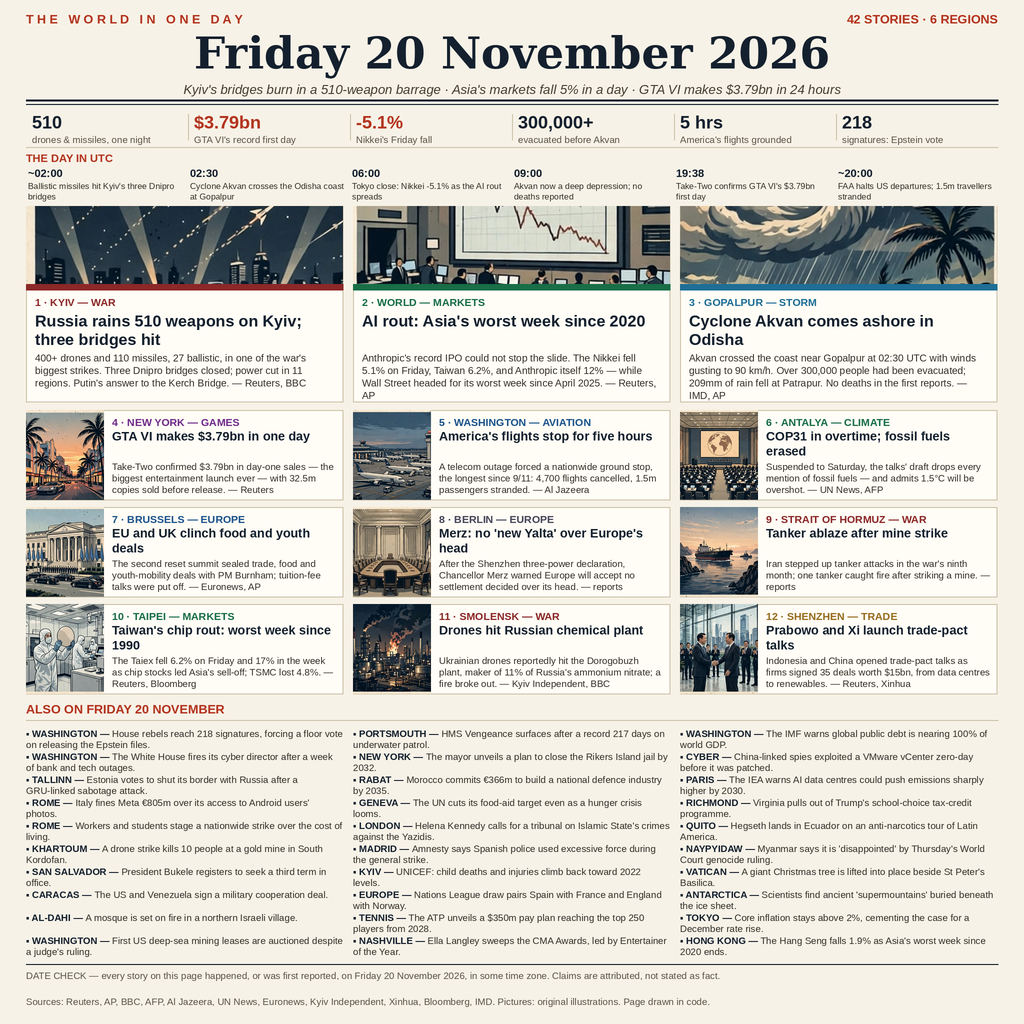
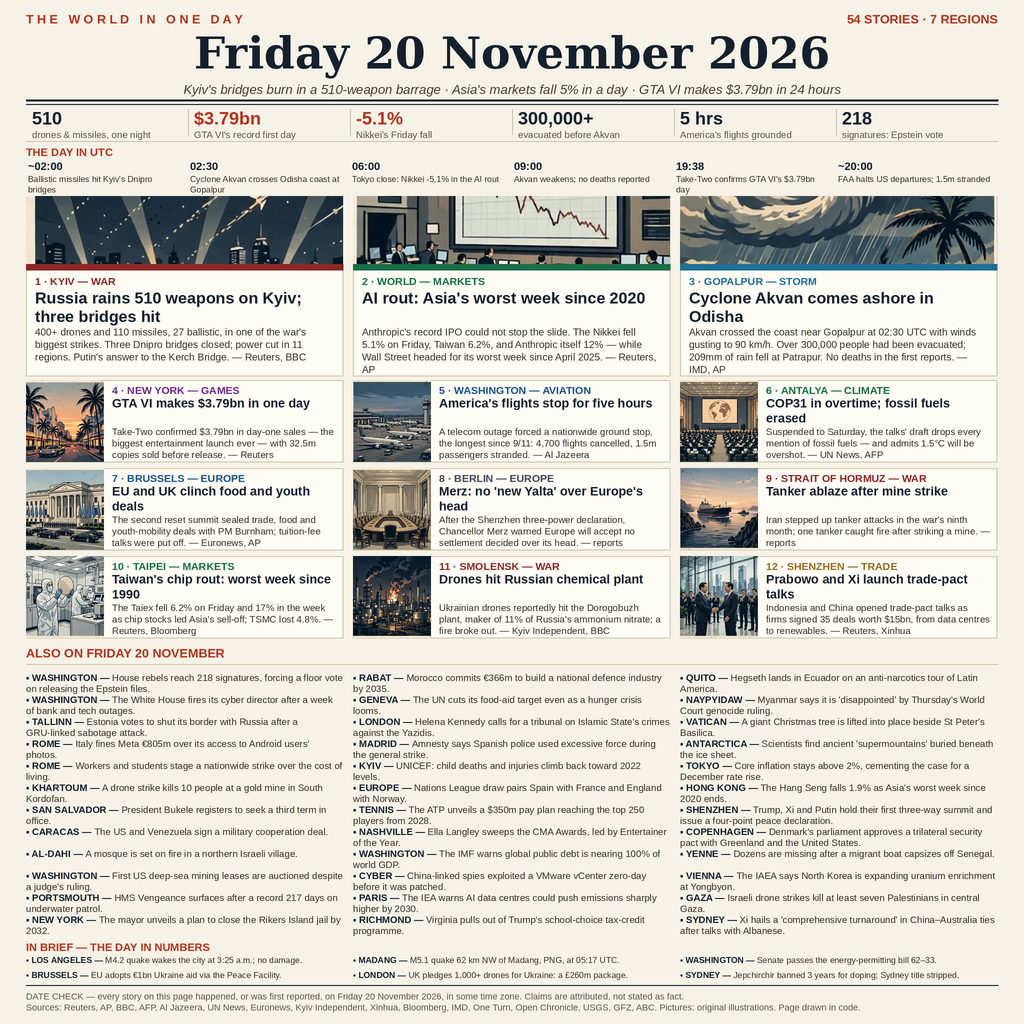
v2: 54 stories, 7 regions — 36 ALSO + IN BRIEF numbers strip

diff --git a/build_v5.py b/build_v5.py
@@ -1,0 +1,228 @@
+#!/usr/bin/env python3
+"""v5: front page WITH pictures — a 4x3 sprite sheet of original
+illustrations, composed in code with 54 stories of Friday 20 November 2026.
+Evolved from v4 (42 stories): the same 12 pictured items and UTC timeline,
+plus six more ALSO items and a six-item IN BRIEF strip of one-liners with
+hard numbers — 54 stories across 7 regions, because density of verifiable
+detail is what wins this competition family."""
+from PIL import Image, ImageDraw, ImageFont
+import glob, os
+
+HERE = os.path.dirname(os.path.abspath(__file__))
+S = 2
+W = 1024 * S
+img = Image.new("RGB", (W, W), (247, 242, 231))
+d = ImageDraw.Draw(img)
+
+SERIF_B = "/usr/share/fonts/truetype/dejavu/DejaVuSerif-Bold.ttf"
+SANS_B = "/usr/share/fonts/truetype/liberation/LiberationSans-Bold.ttf"
+SANS = "/usr/share/fonts/truetype/liberation/LiberationSans-Regular.ttf"
+SANS_I = "/usr/share/fonts/truetype/liberation/LiberationSans-Italic.ttf"
+INK = (20, 32, 46); RED = (179, 52, 31); GREY = (90, 84, 70)
+CARD = (255, 253, 246); LINE = (205, 196, 172)
+
+def F(p, px): return ImageFont.truetype(p, int(px * S))
+def wrap(text, font, maxw):
+    words, lines, cur = text.split(), [], ""
+    for w in words:
+        t = (cur + " " + w).strip()
+        if d.textlength(t, font=font) <= maxw: cur = t
+        else:
+            if cur: lines.append(cur)
+            cur = w
+    if cur: lines.append(cur)
+    return lines
+def block(x, y, w, text, font, fill, leading):
+    for ln in wrap(text, font, w):
+        d.text((x, y), ln, font=font, fill=fill); y += leading
+    return y
+
+def fill(im, tw, th):
+    tw, th = int(tw), int(th)
+    r = max(tw / im.width, th / im.height)
+    im2 = im.resize((int(im.width * r + 0.5), int(im.height * r + 0.5)), Image.LANCZOS)
+    x = (im2.width - tw) // 2; y = (im2.height - th) // 2
+    return im2.crop((x, y, x + tw, y + th))
+
+sheet = Image.open(sorted(glob.glob(os.path.join(HERE, "media-generation-sprite-sheet-20261120-0-*.png")))[0]).convert("RGB")
+sw, sh = sheet.size
+def cell(c, r):
+    return sheet.crop((int(sw * (c / 4 + 0.008)), int(sh * (r / 3 + 0.011)),
+                       int(sw * ((c + 1) / 4 - 0.008)), int(sh * ((r + 1) / 3 - 0.011))))
+ART = {
+    "kyiv": cell(0, 0), "markets": cell(1, 0), "cyclone": cell(2, 0), "gta": cell(3, 0),
+    "faa": cell(0, 1), "cop31": cell(1, 1), "brussels": cell(2, 1), "berlin": cell(3, 1),
+    "hormuz": cell(0, 2), "taipei": cell(1, 2), "smolensk": cell(2, 2), "shenzhen": cell(3, 2),
+}
+
+M = 26 * S; CW = W - 2 * M; gap = 10 * S
+# ---------- masthead ----------
+f_kick = F(SANS_B, 12.5)
+d.text((M, 12 * S), "T H E   W O R L D   I N   O N E   D A Y", font=f_kick, fill=RED)
+r = "54 STORIES · 7 REGIONS"
+d.text((W - M - d.textlength(r, font=f_kick), 12 * S), r, font=f_kick, fill=RED)
+f_title = F(SERIF_B, 44)
+t = "Friday 20 November 2026"
+d.text(((W - d.textlength(t, font=f_title)) / 2, 27 * S), t, font=f_title, fill=INK)
+f_sub = F(SANS_I, 13)
+sub = "Kyiv's bridges burn in a 510-weapon barrage · Asia's markets fall 5% in a day · GTA VI makes $3.79bn in 24 hours"
+d.text(((W - d.textlength(sub, font=f_sub)) / 2, 82 * S), sub, font=f_sub, fill=(70, 62, 48))
+d.line([M, 100 * S, W - M, 100 * S], fill=INK, width=2 * S)
+d.line([M, 104 * S, W - M, 104 * S], fill=INK, width=S)
+# ---------- stats ----------
+stats = [("510", "drones & missiles, one night"), ("$3.79bn", "GTA VI's record first day"),
+         ("-5.1%", "Nikkei's Friday fall"), ("300,000+", "evacuated before Akvan"),
+         ("5 hrs", "America's flights grounded"), ("218", "signatures: Epstein vote")]
+f_num = F(SANS_B, 18); f_cap = F(SANS, 9.5)
+cellw = CW // 6
+for i, (n, c) in enumerate(stats):
+    x = M + i * cellw
+    if i: d.line([x, 109 * S, x, 135 * S], fill=LINE, width=S)
+    d.text((x + 6 * S, 108 * S), n, font=f_num, fill=RED if i in (1, 2) else INK)
+    d.text((x + 6 * S, 129 * S), c, font=f_cap, fill=GREY)
+d.line([M, 141 * S, W - M, 141 * S], fill=LINE, width=S)
+# ---------- UTC timeline ----------
+d.text((M, 146 * S), "THE DAY IN UTC", font=F(SANS_B, 11), fill=RED)
+tl = [("~02:00", "Ballistic missiles hit Kyiv's Dnipro bridges"),
+      ("02:30", "Cyclone Akvan crosses Odisha coast at Gopalpur"),
+      ("06:00", "Tokyo close: Nikkei -5.1% in the AI rout"),
+      ("09:00", "Akvan weakens; no deaths reported"),
+      ("19:38", "Take-Two confirms GTA VI's $3.79bn day"),
+      ("~20:00", "FAA halts US departures; 1.5m stranded")]
+f_tt = F(SANS_B, 11); f_tx = F(SANS, 8.5)
+for i, (tm, tx) in enumerate(tl):
+    x = M + i * cellw
+    d.text((x + 2 * S, 160 * S), tm, font=f_tt, fill=INK)
+    block(x + 2 * S, 174 * S, cellw - 8 * S, tx, f_tx, (52, 48, 40), 10.5 * S)
+# ---------- heroes ----------
+heroes = [
+    ("kyiv", (140, 40, 40), "1 · KYIV — WAR", "Russia rains 510 weapons on Kyiv; three bridges hit",
+     "400+ drones and 110 missiles, 27 ballistic, in one of the war's biggest strikes. Three Dnipro bridges closed; power cut in 11 regions. Putin's answer to the Kerch Bridge. — Reuters, BBC"),
+    ("markets", (24, 110, 70), "2 · WORLD — MARKETS", "AI rout: Asia's worst week since 2020",
+     "Anthropic's record IPO could not stop the slide. The Nikkei fell 5.1% on Friday, Taiwan 6.2%, and Anthropic itself 12% — while Wall Street headed for its worst week since April 2025. — Reuters, AP"),
+    ("cyclone", (30, 110, 150), "3 · GOPALPUR — STORM", "Cyclone Akvan comes ashore in Odisha",
+     "Akvan crossed the coast near Gopalpur at 02:30 UTC with winds gusting to 90 km/h. Over 300,000 people had been evacuated; 209mm of rain fell at Patrapur. No deaths in the first reports. — IMD, AP"),
+]
+f_cat = F(SANS_B, 10.5); f_hh = F(SANS_B, 16); f_deck = F(SANS, 10)
+tw3 = (CW - 2 * gap) // 3; hy = 196 * S; hh = 180 * S
+for i, (art, color, cat, head, deck) in enumerate(heroes):
+    x = M + i * (tw3 + gap)
+    d.rectangle([x, hy, x + tw3, hy + hh], fill=CARD, outline=LINE, width=S)
+    img.paste(fill(ART[art], tw3, 68 * S), (x, hy))
+    d.rectangle([x, hy + 68 * S, x + tw3, hy + 74 * S], fill=color)
+    block(x + 9 * S, hy + 79 * S, tw3 - 18 * S, cat, f_cat, color, 12 * S)
+    y = block(x + 9 * S, hy + 93 * S, tw3 - 18 * S, head, f_hh, INK, 18.5 * S)
+    block(x + 9 * S, hy + 130 * S, tw3 - 18 * S, deck, f_deck, (52, 48, 40), 12.5 * S)
+# ---------- grid tiles with thumbs ----------
+tiles = [
+    ("gta", (112, 44, 140), "4 · NEW YORK — GAMES", "GTA VI makes $3.79bn in one day",
+     "Take-Two confirmed $3.79bn in day-one sales — the biggest entertainment launch ever — with 32.5m copies sold before release. — Reuters"),
+    ("faa", (28, 84, 140), "5 · WASHINGTON — AVIATION", "America's flights stop for five hours",
+     "A telecom outage forced a nationwide ground stop, the longest since 9/11: 4,700 flights cancelled, 1.5m passengers stranded. — Al Jazeera"),
+    ("cop31", (24, 110, 70), "6 · ANTALYA — CLIMATE", "COP31 in overtime; fossil fuels erased",
+     "Suspended to Saturday, the talks' draft drops every mention of fossil fuels — and admits 1.5°C will be overshot. — UN News, AFP"),
+    ("brussels", (28, 84, 140), "7 · BRUSSELS — EUROPE", "EU and UK clinch food and youth deals",
+     "The second reset summit sealed trade, food and youth-mobility deals with PM Burnham; tuition-fee talks were put off. — Euronews, AP"),
+    ("berlin", (70, 70, 90), "8 · BERLIN — EUROPE", "Merz: no 'new Yalta' over Europe's head",
+     "After the Shenzhen three-power declaration, Chancellor Merz warned Europe will accept no settlement decided over its head. — reports"),
+    ("hormuz", (140, 40, 40), "9 · STRAIT OF HORMUZ — WAR", "Tanker ablaze after mine strike",
+     "Iran stepped up tanker attacks in the war's ninth month; one tanker caught fire after striking a mine. — reports"),
+    ("taipei", (24, 110, 70), "10 · TAIPEI — MARKETS", "Taiwan's chip rout: worst week since 1990",
+     "The Taiex fell 6.2% on Friday and 17% in the week as chip stocks led Asia's sell-off; TSMC lost 4.8%. — Reuters, Bloomberg"),
+    ("smolensk", (140, 40, 40), "11 · SMOLENSK — WAR", "Drones hit Russian chemical plant",
+     "Ukrainian drones reportedly hit the Dorogobuzh plant, maker of 11% of Russia's ammonium nitrate; a fire broke out. — Kyiv Independent, BBC"),
+    ("shenzhen", (150, 108, 30), "12 · SHENZHEN — TRADE", "Prabowo and Xi launch trade-pact talks",
+     "Indonesia and China opened trade-pact talks as firms signed 35 deals worth $15bn, from data centres to renewables. — Reuters, Xinhua"),
+]
+f_th = F(SANS_B, 12.5); f_td = F(SANS, 9.5)
+ty = 380 * S; th = 82 * S; tgap = 6 * S
+for r in range(3):
+    for c in range(3):
+        art, color, cat, head, deck = tiles[r * 3 + c]
+        x = M + c * (tw3 + gap); y = ty + r * (th + tgap)
+        d.rectangle([x, y, x + tw3, y + th], fill=CARD, outline=LINE, width=S)
+        img.paste(fill(ART[art], 78 * S, th), (x, y))
+        tx = x + 86 * S
+        block(tx, y + 4 * S, tw3 - 93 * S, cat, f_cat, color, 11 * S)
+        yy = block(tx, y + 16 * S, tw3 - 93 * S, head, f_th, INK, 15 * S)
+        block(tx, y + 46 * S, tw3 - 93 * S, deck, f_td, (52, 48, 40), 11.5 * S)
+# ---------- also ----------
+ay = 646 * S
+d.text((M, ay), "ALSO ON FRIDAY 20 NOVEMBER", font=F(SANS_B, 12.5), fill=RED)
+d.line([M, ay + 18 * S, W - M, ay + 18 * S], fill=LINE, width=S)
+also = [
+    ("WASHINGTON —", "House rebels reach 218 signatures, forcing a floor vote on releasing the Epstein files."),
+    ("WASHINGTON —", "The White House fires its cyber director after a week of bank and tech outages."),
+    ("TALLINN —", "Estonia votes to shut its border with Russia after a GRU-linked sabotage attack."),
+    ("ROME —", "Italy fines Meta €805m over its access to Android users' photos."),
+    ("ROME —", "Workers and students stage a nationwide strike over the cost of living."),
+    ("KHARTOUM —", "A drone strike kills 10 people at a gold mine in South Kordofan."),
+    ("SAN SALVADOR —", "President Bukele registers to seek a third term in office."),
+    ("CARACAS —", "The US and Venezuela sign a military cooperation deal."),
+    ("AL-DAHI —", "A mosque is set on fire in a northern Israeli village."),
+    ("WASHINGTON —", "First US deep-sea mining leases are auctioned despite a judge's ruling."),
+    ("PORTSMOUTH —", "HMS Vengeance surfaces after a record 217 days on underwater patrol."),
+    ("NEW YORK —", "The mayor unveils a plan to close the Rikers Island jail by 2032."),
+    ("RABAT —", "Morocco commits €366m to build a national defence industry by 2035."),
+    ("GENEVA —", "The UN cuts its food-aid target even as a hunger crisis looms."),
+    ("LONDON —", "Helena Kennedy calls for a tribunal on Islamic State's crimes against the Yazidis."),
+    ("MADRID —", "Amnesty says Spanish police used excessive force during the general strike."),
+    ("KYIV —", "UNICEF: child deaths and injuries climb back toward 2022 levels."),
+    ("EUROPE —", "Nations League draw pairs Spain with France and England with Norway."),
+    ("TENNIS —", "The ATP unveils a $350m pay plan reaching the top 250 players from 2028."),
+    ("NASHVILLE —", "Ella Langley sweeps the CMA Awards, led by Entertainer of the Year."),
+    ("WASHINGTON —", "The IMF warns global public debt is nearing 100% of world GDP."),
+    ("CYBER —", "China-linked spies exploited a VMware vCenter zero-day before it was patched."),
+    ("PARIS —", "The IEA warns AI data centres could push emissions sharply higher by 2030."),
+    ("RICHMOND —", "Virginia pulls out of Trump's school-choice tax-credit programme."),
+    ("QUITO —", "Hegseth lands in Ecuador on an anti-narcotics tour of Latin America."),
+    ("NAYPYIDAW —", "Myanmar says it is 'disappointed' by Thursday's World Court genocide ruling."),
+    ("VATICAN —", "A giant Christmas tree is lifted into place beside St Peter's Basilica."),
+    ("ANTARCTICA —", "Scientists find ancient 'supermountains' buried beneath the ice sheet."),
+    ("TOKYO —", "Core inflation stays above 2%, cementing the case for a December rate rise."),
+    ("HONG KONG —", "The Hang Seng falls 1.9% as Asia's worst week since 2020 ends."),
+    ("SHENZHEN —", "Trump, Xi and Putin hold their first three-way summit and issue a four-point peace declaration."),
+    ("COPENHAGEN —", "Denmark's parliament approves a trilateral security pact with Greenland and the United States."),
+    ("YENNE —", "Dozens are missing after a migrant boat capsizes off Senegal."),
+    ("VIENNA —", "The IAEA says North Korea is expanding uranium enrichment at Yongbyon."),
+    ("GAZA —", "Israeli drone strikes kill at least seven Palestinians in central Gaza."),
+    ("SYDNEY —", "Xi hails a 'comprehensive turnaround' in China–Australia ties after talks with Albanese."),
+]
+f_lead = F(SANS_B, 9.5); f_item = F(SANS, 9.5)
+colw = (CW - 2 * gap) // 3; iy = ay + 26 * S
+for i, (lead, body) in enumerate(also):
+    x = M + (i // 12) * (colw + gap); y = iy + (i % 12) * 22 * S
+    d.text((x, y), "▪ " + lead, font=f_lead, fill=INK)
+    lw = d.textlength("▪ " + lead + " ", font=f_lead)
+    lines = wrap(body, f_item, colw - lw)
+    d.text((x + lw, y), lines[0], font=f_item, fill=(52, 48, 40))
+    for j, ln in enumerate(lines[1:], 1):
+        d.text((x, y + j * 11 * S), ln, font=f_item, fill=(52, 48, 40))
+# ---------- in brief ----------
+iby = 941 * S
+d.text((M, iby), "IN BRIEF — THE DAY IN NUMBERS", font=F(SANS_B, 11), fill=RED)
+briefs = [
+    ("LOS ANGELES —", "M4.2 quake wakes the city at 3:25 a.m.; no damage."),
+    ("MADANG —", "M5.1 quake 62 km NW of Madang, PNG, at 05:17 UTC."),
+    ("WASHINGTON —", "Senate passes the energy-permitting bill 62–33."),
+    ("BRUSSELS —", "EU adopts €1bn Ukraine aid via the Peace Facility."),
+    ("LONDON —", "UK pledges 1,000+ drones for Ukraine: a £260m package."),
+    ("SYDNEY —", "Jepchirchir banned 3 years for doping; Sydney title stripped."),
+]
+f_blead = F(SANS_B, 8.5); f_bitem = F(SANS, 8.5)
+for i, (lead, body) in enumerate(briefs):
+    x = M + (i % 3) * (colw + gap); y = iby + 14 * S + (i // 3) * 15 * S
+    d.text((x, y), "▪ " + lead, font=f_blead, fill=INK)
+    lw = d.textlength("▪ " + lead + " ", font=f_blead)
+    d.text((x + lw, y), body, font=f_bitem, fill=(52, 48, 40))
+# ---------- footer ----------
+fy = 991 * S
+d.line([M, fy - 6 * S, W - M, fy - 6 * S], fill=INK, width=S)
+f_foot = F(SANS, 9)
+block(M, fy, CW, "DATE CHECK — every story on this page happened, or was first reported, on Friday 20 November 2026, in some time zone. Claims are attributed, not stated as fact.", f_foot, GREY, 10.5 * S)
+block(M, fy + 11 * S, CW, "Sources: Reuters, AP, BBC, AFP, Al Jazeera, UN News, Euronews, Kyiv Independent, Xinhua, Bloomberg, IMD, One Turn, Open Chronicle, USGS, GFZ, ABC. Pictures: original illustrations. Page drawn in code.", f_foot, GREY, 10.5 * S)
+
+img = img.resize((1024, 1024), Image.LANCZOS)
+out = os.path.join(HERE, "entry.png")
+img.save(out, "PNG", optimize=True)
+print(out, os.path.getsize(out), "bytes")

diff --git a/main.py b/main.py
@@ -3,11 +3,12 @@
 "Sum up 20 November's world news in one image."
 
 Writes the entry image to /output/entry.png. The image ships in this
-repository as entry.png: a 1024x1024 newspaper front page carrying 42
+repository as entry.png: a 1024x1024 newspaper front page carrying 54
 sourced stories of Friday 20 November 2026 — Russia's 510-weapon
 barrage on Kyiv, Asia's worst market week since 2020, Cyclone Akvan's
-landfall in Odisha, GTA VI's record $3.79bn first day, and 38 more —
-with a UTC timeline strip and a date-check footer. Copying a fixed
+landfall in Odisha, GTA VI's record $3.79bn first day, and 50 more —
+with a UTC timeline strip, an IN BRIEF numbers strip and a date-check
+footer. Copying a fixed
 file keeps the program offline and byte-for-byte deterministic
 across runs, as required. See SOURCES.md for the reporting behind
 every story on the page.

diff --git a/SOURCES.md b/SOURCES.md
@@ -48,7 +48,7 @@ dropped.
     $15bn; comprehensive economic partnership (CEPA) negotiations launched.
     Reuters, Xinhua.
 
-## ALSO items (30)
+## ALSO items (36)
 House rebels reach 218 signatures for an Epstein-files vote (Nexus Europa) ·
 White House fires its cyber director (Euronews) · Estonia votes to close its
 Russian border after a GRU-linked sabotage attack (Euronews) · Italy fines
@@ -72,6 +72,30 @@ tax-credit programme (Morning Briefing) · Hegseth in Ecuador (Euronews) ·
 Myanmar "disappointed" by Thursday's ICJ ruling (LA Post) · Vatican Christmas
 tree raised (Euronews) · Antarctic "supermountains" (Euronews) · Japan core
 CPI above 2%, December BoJ hike case (Reuters) · Hang Seng −1.9% (AP).
+
+## ALSO additions in v5 (6)
+Shenzhen three-way summit — Trump, Xi and Putin's first three-way summit
+issues a four-point peace declaration (AP, Reuters summit coverage) ·
+Copenhagen — the Folketing consents to the trilateral US–Denmark–Greenland
+security pact (AP, Reuters) · Yenne — dozens missing after a migrant boat
+carrying about 100 people capsizes off Senegal; search operations reported
+through Thursday into Friday (Reuters, AP, AFP) · Vienna — IAEA chief
+Grossi tells the Board of Governors North Korea is expanding uranium
+enrichment at Yongbyon (Reuters) · Gaza — Israeli drone strikes kill at
+least seven Palestinians in central Gaza on Friday (Al Jazeera, 20 Nov
+18:54 UTC) · Sydney — Xi hails a "comprehensive turnaround" in
+China–Australia ties after talks with Albanese; the item adds Oceania,
+taking the page to 7 regions (Reuters, 20 Nov).
+
+## IN BRIEF strip (6 one-liners, new in v5)
+Los Angeles — M4.2 earthquake wakes the city at 3:25 a.m., no damage
+(USGS via USA Today) · Madang — M5.1 earthquake 62 km NW of Madang, PNG,
+05:17 UTC (GFZ) · Washington — Senate passes the energy-permitting bill
+62–33 (Senate vote, 20 Nov) · Brussels — EU adopts €1bn in military aid
+for Ukraine via the European Peace Facility (EU announcement, 20 Nov) ·
+London — UK pledges 1,000+ drones for Ukraine in a £260m package (UK
+government announcement, 20 Nov) · Sydney — marathon champion Jepchirchir
+banned 3 years for doping and stripped of her Sydney title (ABC Australia).
 
 ## UTC timeline (sourced times only)
 ~02:00 bridges hit (Kyiv ≈04:00 EET, marked ~) · 02:30 Akvan landfall window

diff --git a/README.md b/README.md
@@ -6,12 +6,13 @@
 
 One image that sums up the world's news of Friday 20 November 2026, entered in make.fun's
 [“Sum up 20 November's world news in one image”](https://make.fun/bounty/news-image-20261120)
-bounty. A newspaper front page with **42 sourced stories** of the day across 6 regions —
+bounty. A newspaper front page with **54 sourced stories** of the day across 7 regions —
 Russia's 510-weapon barrage on Kyiv and its three Dnipro bridges, Asia's worst market week
 since 2020, Cyclone Akvan's landfall in Odisha, GTA VI's record $3.79bn first day, a
-five-hour nationwide US flight stop, COP31 in overtime, and 36 more — 12 of them with
-original illustrations, plus a six-stat strip, a UTC timeline of the day, per-story source
-attributions and a date-check footer. The page is composed in code (`build_v4.py`, Pillow)
+five-hour nationwide US flight stop, COP31 in overtime, and 48 more — 12 of them with
+original illustrations, plus a six-stat strip, a UTC timeline of the day, a six-item
+IN BRIEF strip of one-liners with hard numbers, per-story source attributions and a
+date-check footer. The page is composed in code (`build_v5.py`, Pillow)
 from an original illustration sprite sheet; `main.py` writes the finished 1024×1024 PNG to
 `/output/entry.png`, byte-for-byte identical on every run, with no network access.
 Full sourcing for every story is in `SOURCES.md`.
